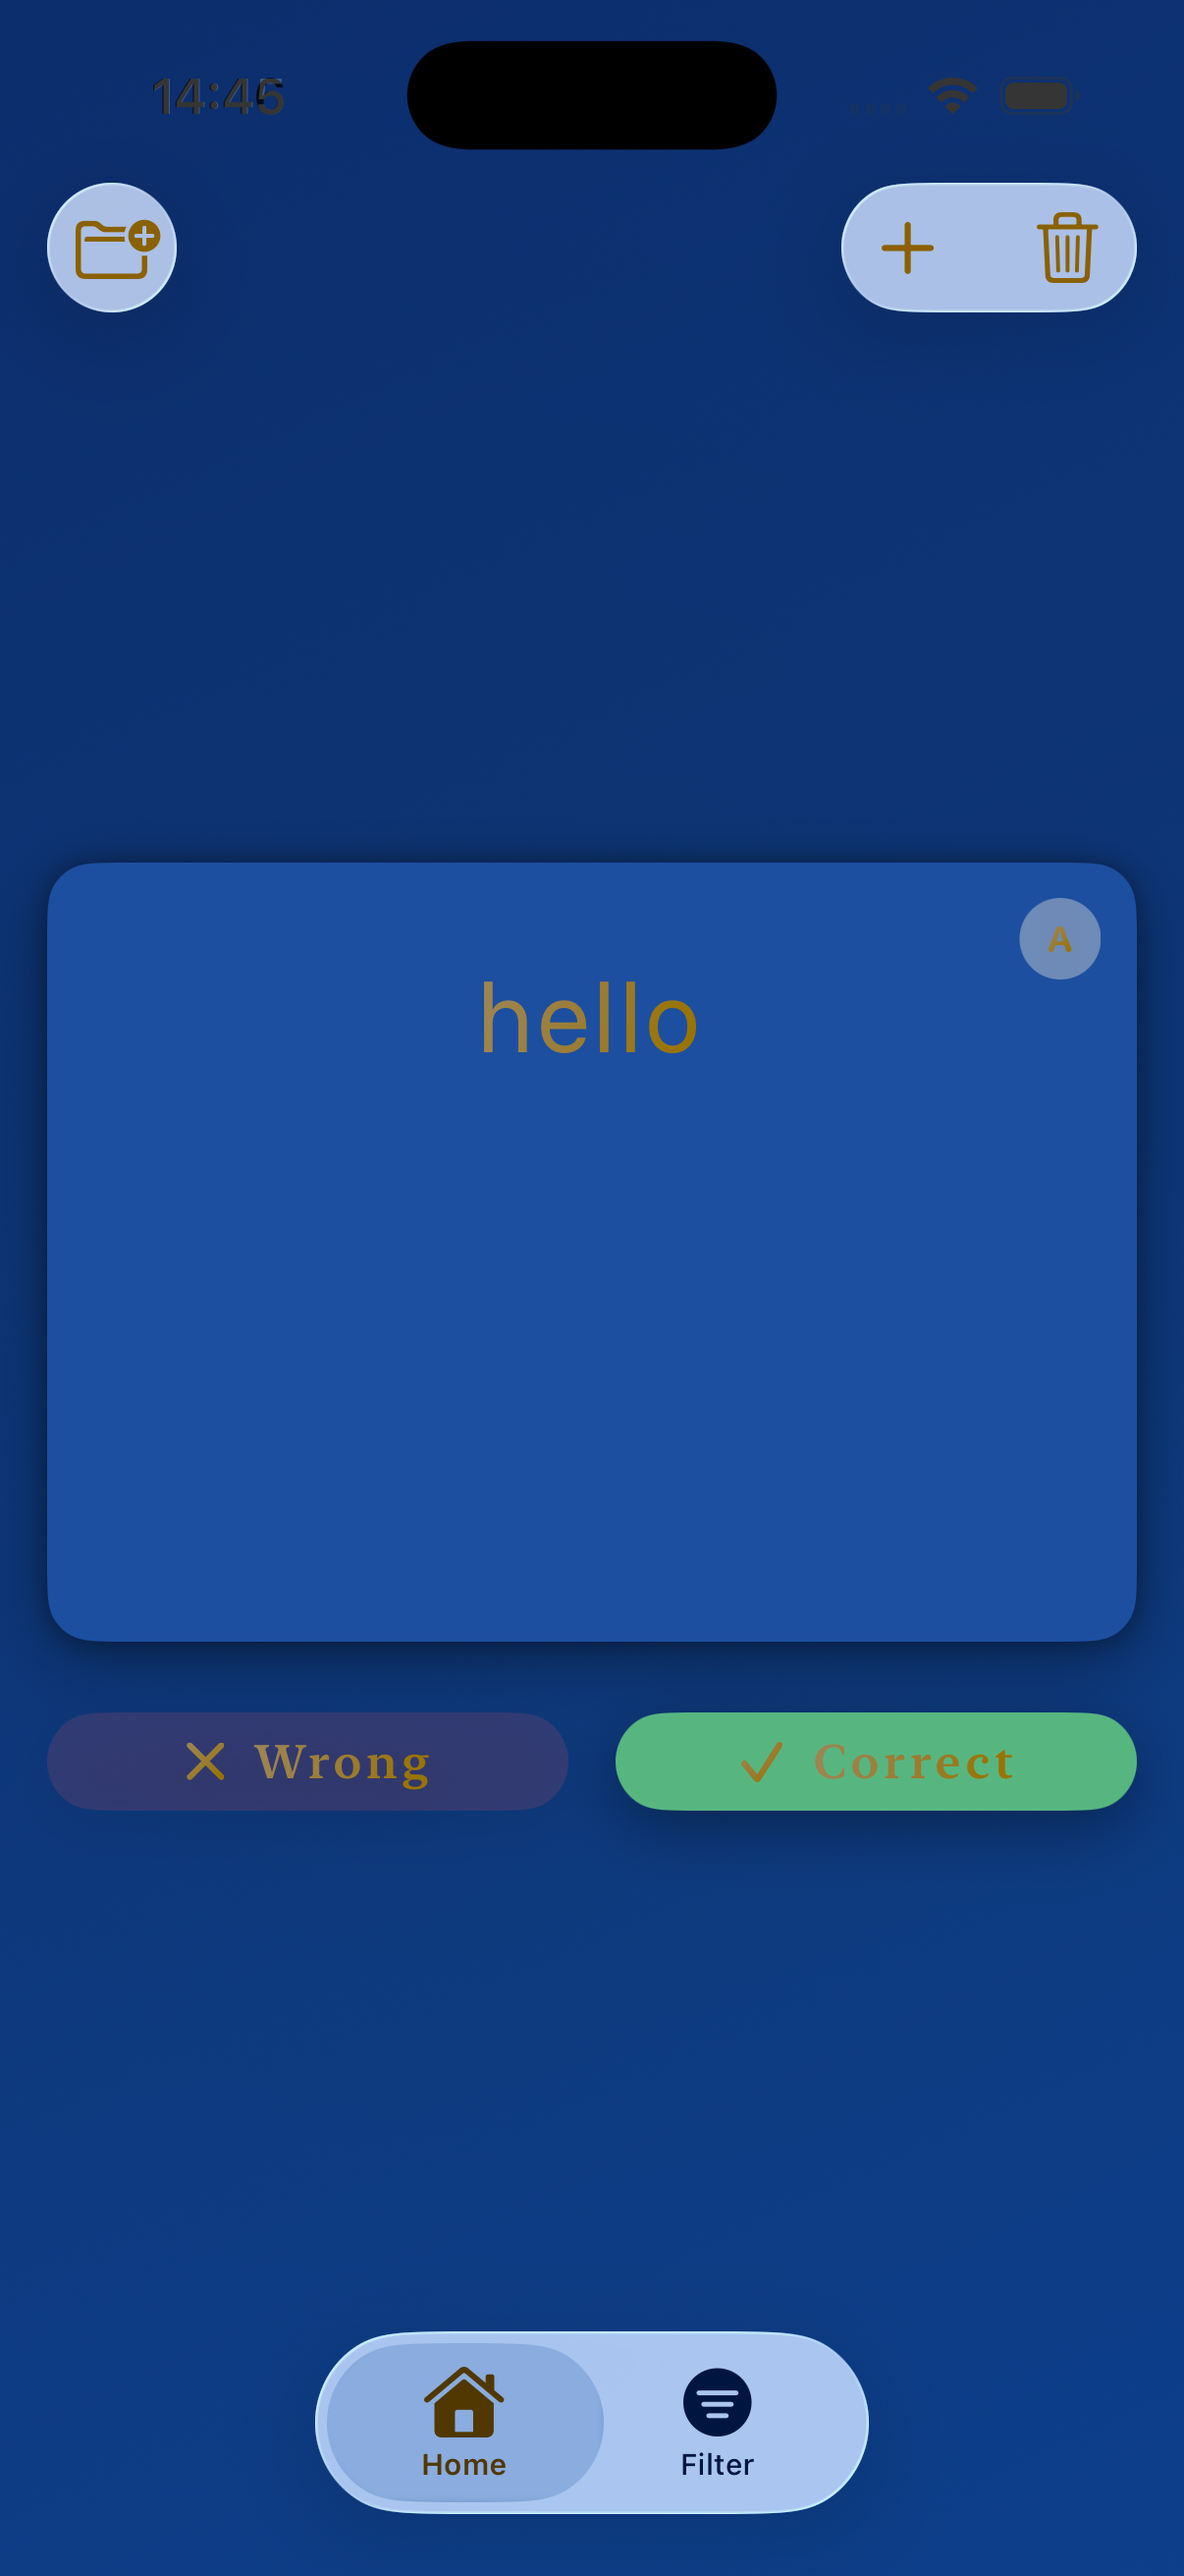
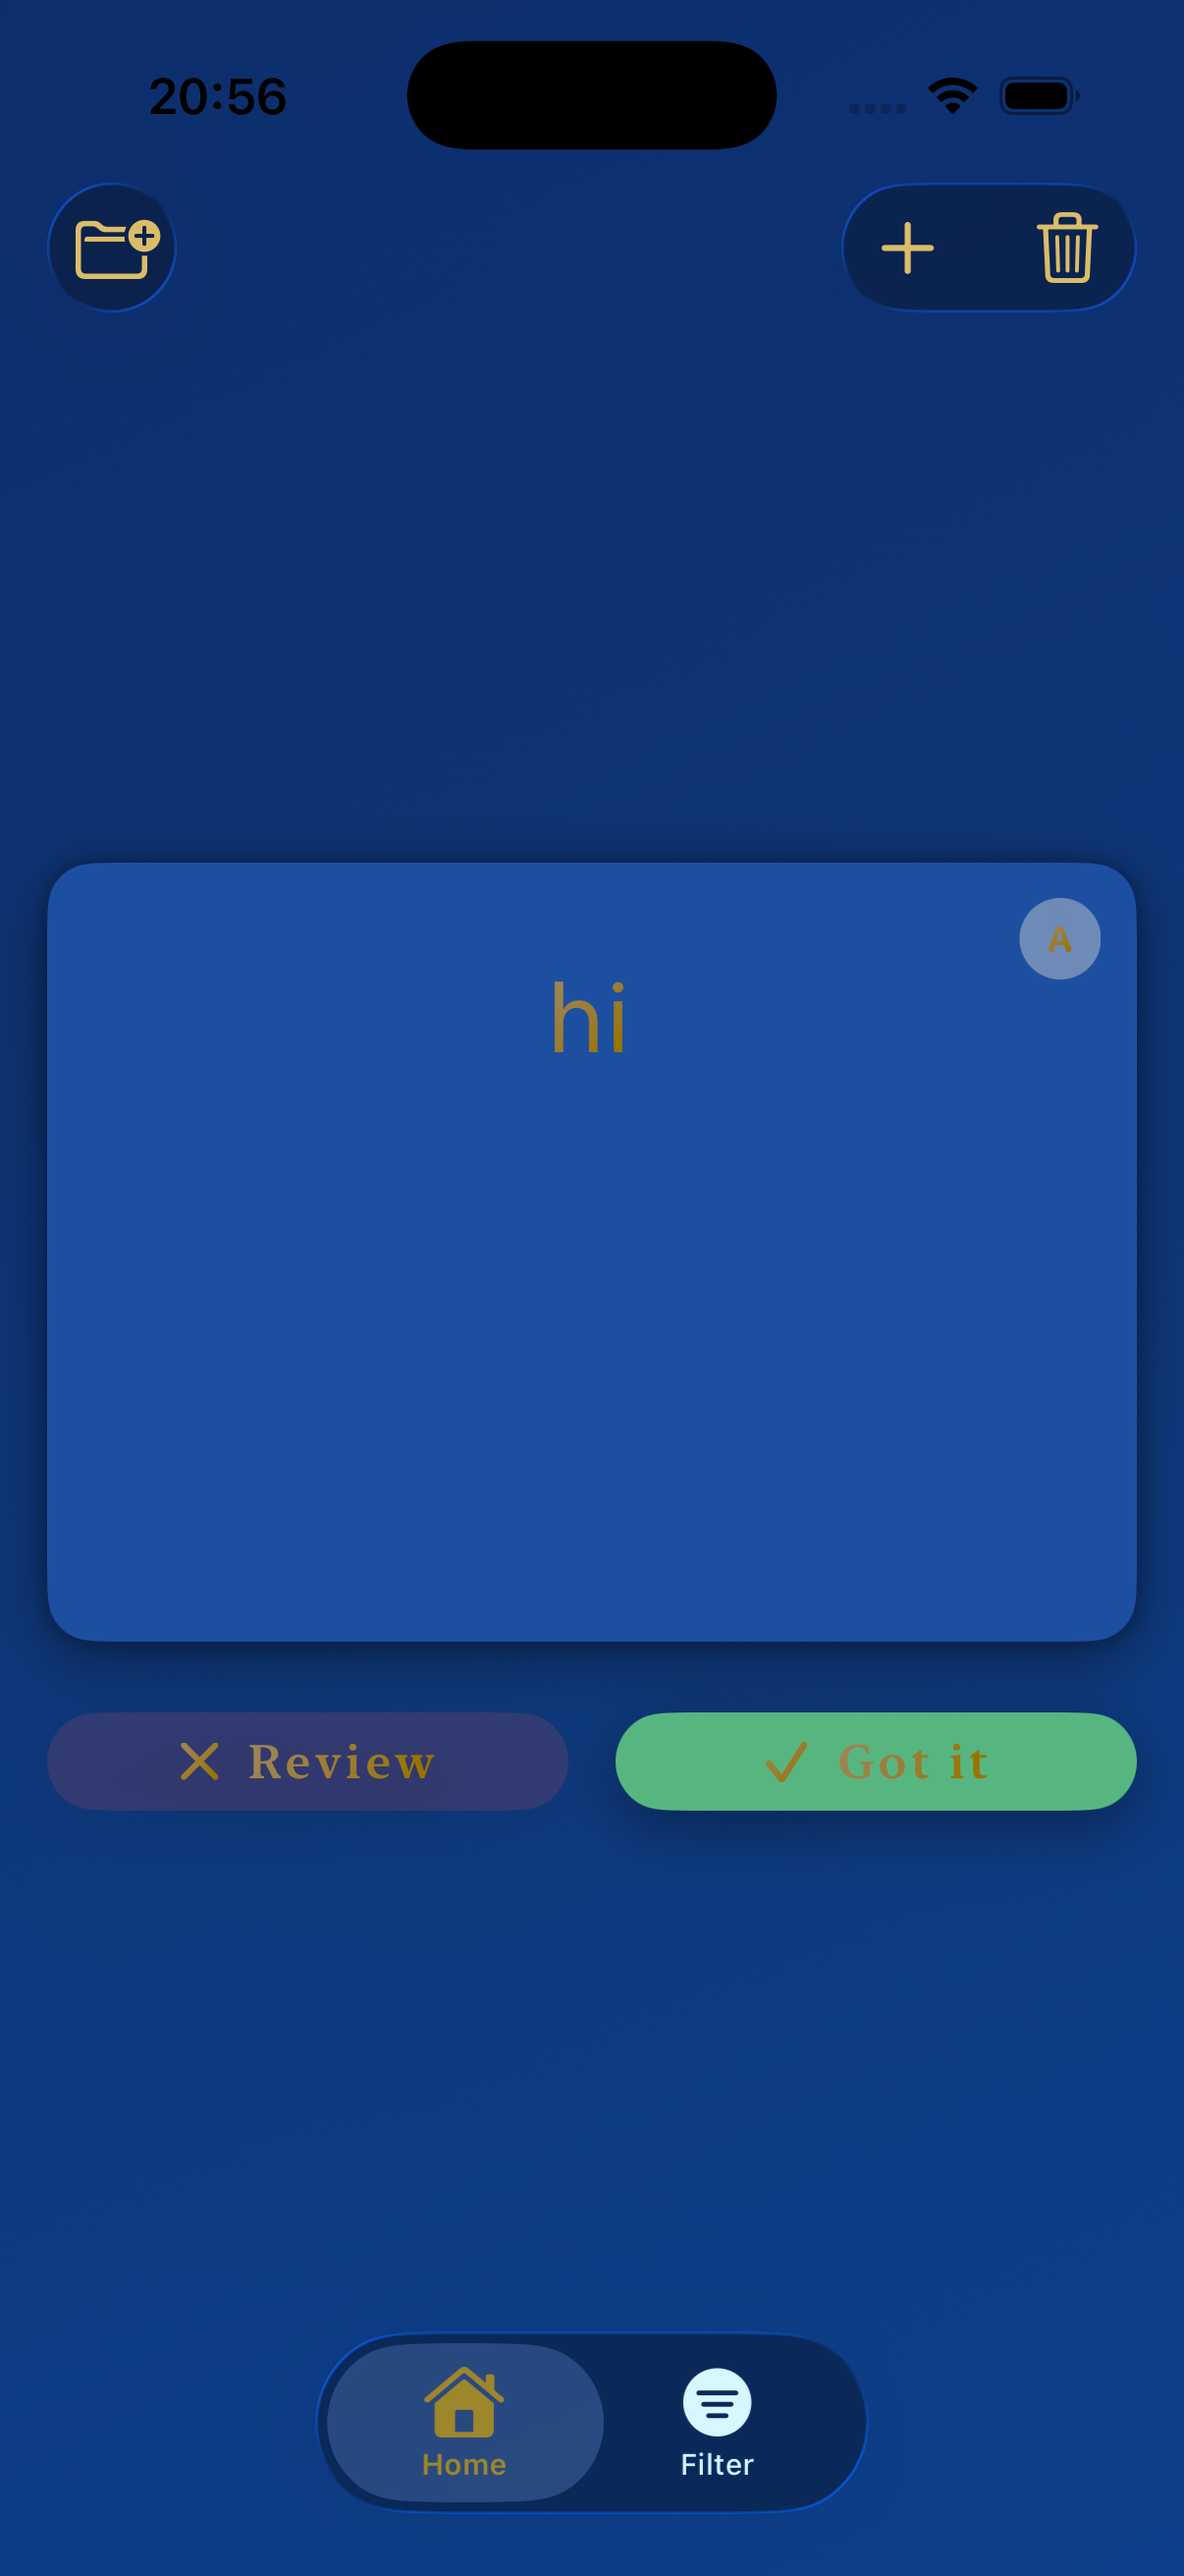
UI Improvements

diff --git a/Elorize/Filter/FilterView.swift b/Elorize/Filter/FilterView.swift
@@ -26,20 +26,26 @@ struct FilterView: View {
         }
         Spacer()
       }
-			.toolbar {
-				ToolbarItem(placement: .topBarLeading) {
-					EditButton()
-				}
-				ToolbarItem(placement: .topBarTrailing) {
-					Button(role: .destructive) {
-						showingDeleteSubjectsAlert = true
-					} label: {
-						Label("Delete Selected", systemImage: "trash")
-					}
-					.disabled(viewModel.selectedSubjectIDs.isEmpty)
-				}
-			}
+      if showingDeleteSubjectsAlert {
+        Color.black.opacity(0.35)
+          .ignoresSafeArea()
+          .transition(.opacity)
+          .animation(.easeInOut(duration: 0.2), value: showingDeleteSubjectsAlert)
+      }
     }
+		.toolbar {
+			ToolbarItem(placement: .topBarLeading) {
+				EditButton()
+			}
+			ToolbarItem(placement: .topBarTrailing) {
+				Button(role: .destructive) {
+					showingDeleteSubjectsAlert = true
+				} label: {
+					Label("Delete Selected", systemImage: "trash")
+				}
+				.disabled(viewModel.selectedSubjectIDs.isEmpty)
+			}
+		}
     .environment(\.editMode, $editMode)
     .alert(
       "Confirm Deletion",

diff --git a/Elorize/Flashcard/Views/FlashCardView.swift b/Elorize/Flashcard/Views/FlashCardView.swift
@@ -124,7 +124,7 @@ private extension FlashCardView {
 			viewModel.actions.onWrong()
 			viewModel.isFlipped = false
 		} label: {
-			Label("Wrong", systemImage: "xmark")
+			Label("Review", systemImage: "xmark")
 				.frame(maxWidth: .infinity)
 		}
 		.buttonStyle(.bordered)
@@ -137,7 +137,7 @@ private extension FlashCardView {
 			viewModel.actions.onCorrect()
 			viewModel.isFlipped = false
 		} label: {
-			Label("Correct", systemImage: "checkmark")
+			Label("Got it", systemImage: "checkmark")
 				.frame(maxWidth: .infinity)
 		}
 		.buttonStyle(.borderedProminent)

diff --git a/Elorize/Home/HomeView.swift b/Elorize/Home/HomeView.swift
@@ -108,7 +108,7 @@ private extension HomeView {
     }
     .textViewStyle(16)
     .alert(
-      "Do you really want to delete this flash card?",
+      "Do you really want to delete the current flash card?",
       isPresented: $viewModel.showingDeleteAlert,
       presenting: viewModel.entityPendingDeletion
     ) { pending in
